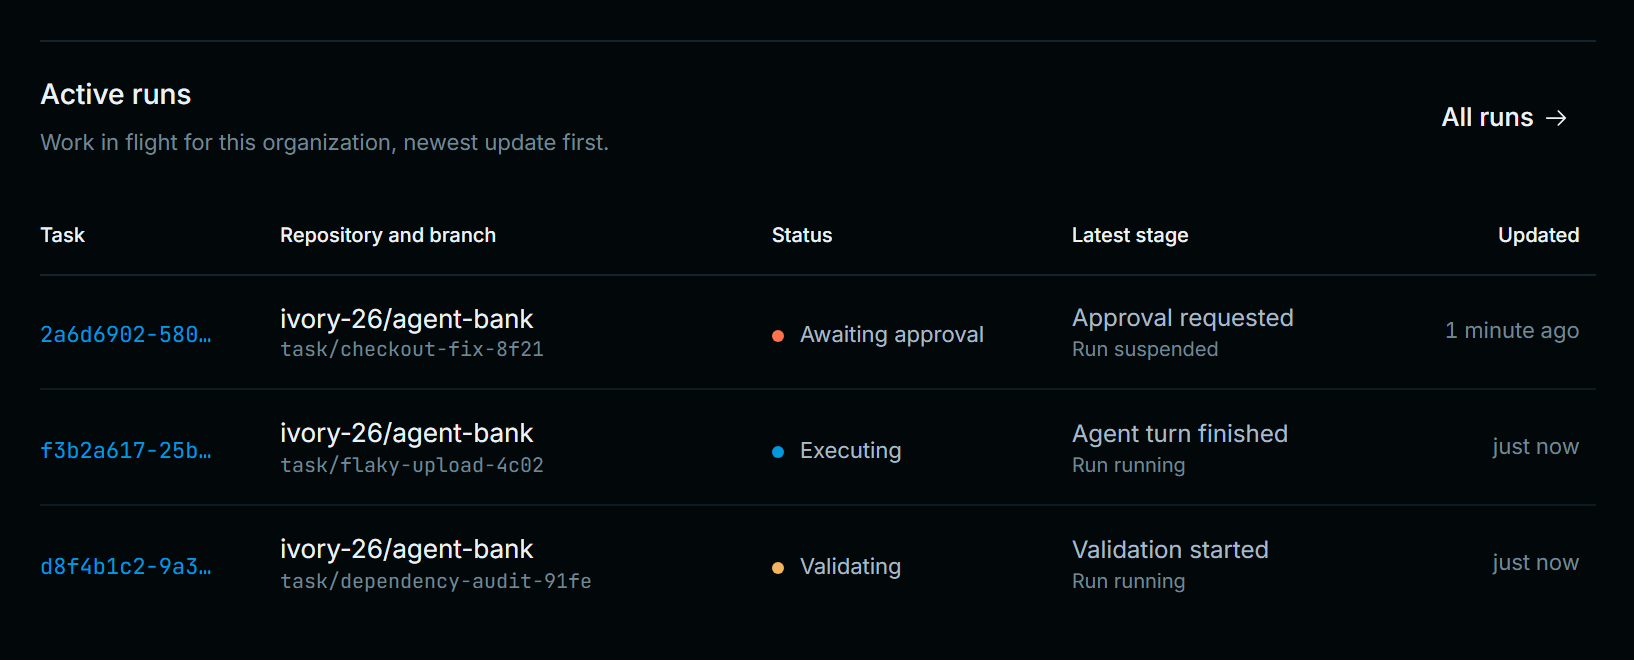
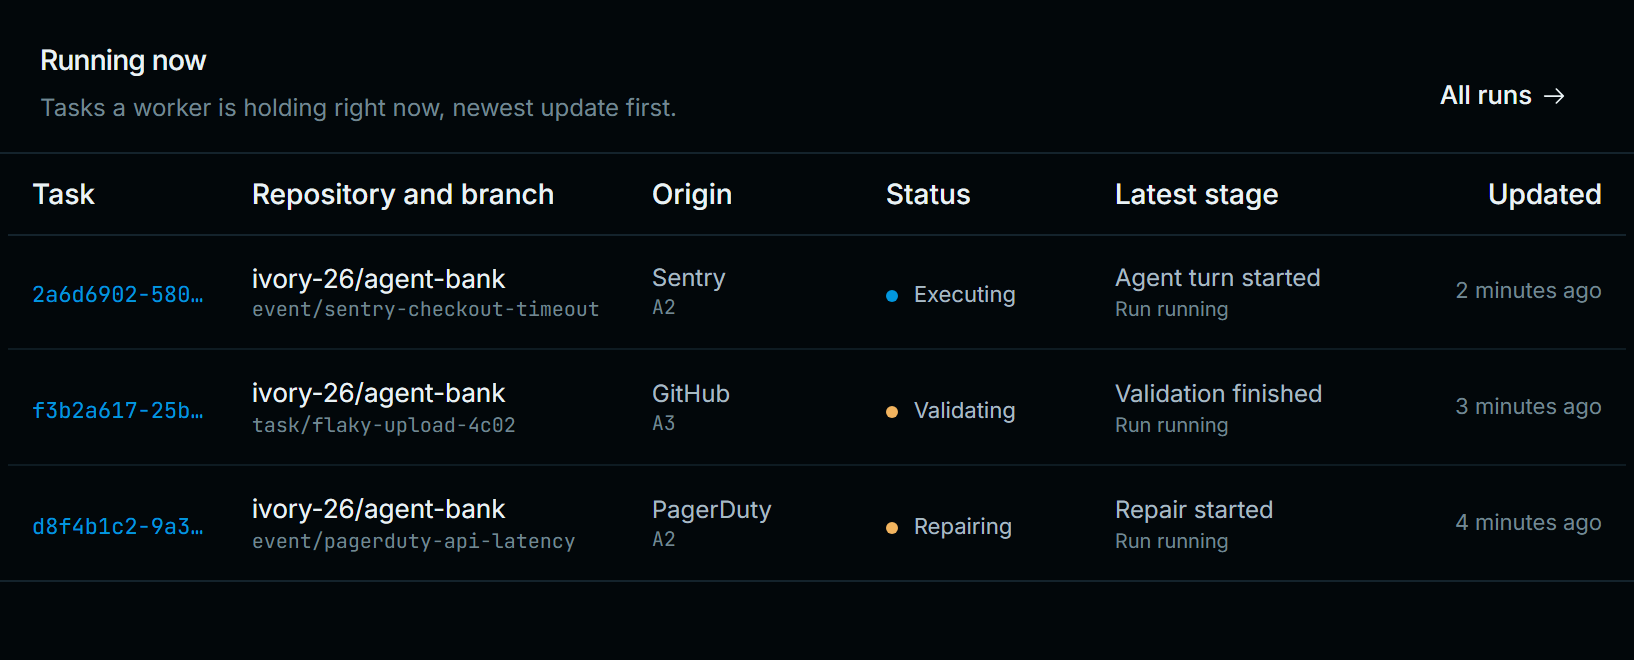
docs(landing): recapture wave-23 home composition

diff --git a/apps/web/src/features/landing/landing-page.tsx b/apps/web/src/features/landing/landing-page.tsx
@@ -163,7 +163,7 @@ export function LandingPage() {
 					<div className="mx-auto w-full max-w-[1200px]">
 						<ProductShot
 							src="/images/dashboard-overview.png"
-							alt="Isolate Overview dashboard showing active runs, pending approvals, recent activity and a registered device"
+							alt="Isolate Home showing Needs you, Running now, Inbox and Sources with the four Home metrics. Illustrative product view with synthetic data."
 							width={1600}
 							height={1200}
 							eager

diff --git a/apps/web/public/images/PROVENANCE.md b/apps/web/public/images/PROVENANCE.md
@@ -5,15 +5,26 @@ Isolate UI rendered with **synthetic** data, not live tenant data.
 
 | File | Source | Capture |
 |---|---|---|
-| `dashboard-overview.png` | Temporary `/dashboard-preview` route rendering the real Overview components (`PageHeader`, `MetricStrip`, `ActiveRunsSection`, `PendingApprovalsPreview`, `ActivityFeed`, `DeviceHealthSection`) inside the real `AppShell` | 1600×1200 CSS px at device scale 1, 2026-11-01 |
-| `dashboard-active-runs.png` | Clip of the `Active runs` section from the same preview, with 20px of page background around the section so the heading is not clipped | 817×330 CSS px at device scale 2 (1634×660 px) |
-| `dashboard-approvals.png` | Clip of the `Pending approvals` section from the same preview, with 20px of page background around the section | 526×330 CSS px at device scale 2 (1052×660 px) |
+| `dashboard-overview.png` | Temporary `/dashboard-preview` route rendering the real wave-23 Home composition: `PageHeader`, `SetupChecklist` (when setup is incomplete), the four-metric `MetricStrip`, `NeedsYouSection` with `ApprovalRows`, `RunningNowSection`, `HomeInboxPreview` and `HomeSourcesSection`, inside the app-shell chrome | 1600×1200 CSS px at device scale 1, 2026-11-02 |
+| `dashboard-active-runs.png` | Clip of the `Running now` section (`RunningNowSection`) from the same preview, with 20px of page background around the section so the heading is not clipped | 817×330 CSS px at device scale 2 (1634×660 px) |
+| `dashboard-approvals.png` | Clip of the `Needs you` section (`NeedsYouSection`, approvals group) from the same preview, with 20px of page background around the section | 526×330 CSS px at device scale 2 (1052×660 px) |
 
-Synthetic identities and records: organization "Demo workspace" / repository
-"ivory-26/agent-bank", task ids and run events. No real user, repository secret,
-token, or provider credential appears in these images. The preview route is
-removed after capture; the images are labeled "Illustrative product view. Data
-is synthetic." on the landing page.
+The preview route is public and renders from static synthetic data: no session,
+database read or live provider call is involved. The app shell normally needs a
+session for its organization and user menus, so the preview reproduces that
+chrome faithfully with the real brand mark and navigation groups. The overview
+capture uses a completed setup state so the operational Home is visible; the
+same preview renders the real `SetupChecklist` at `?setup=incomplete`.
+
+Synthetic identities and records: organization "Demo workspace", repository
+"ivory-26/agent-bank", synthetic task ids, approvals, event deliveries, relays
+and connector metadata. Running rows carry only the supported autonomy labels
+A2 and A3; A0 records an event without creating a task, A1 investigate is
+planned but unsupported, and A4 production mutation is out of scope, so none of
+those labels appears in Running now. No real user, repository secret, token, or
+provider credential appears in these images. The preview route is removed after
+capture; the images are illustrative product views with synthetic data, and the
+landing `alt` text says so.
 
 The dashboard shell in the screenshot reflects the product UI at capture time;
 small styling refinements after capture do not change the represented features.
